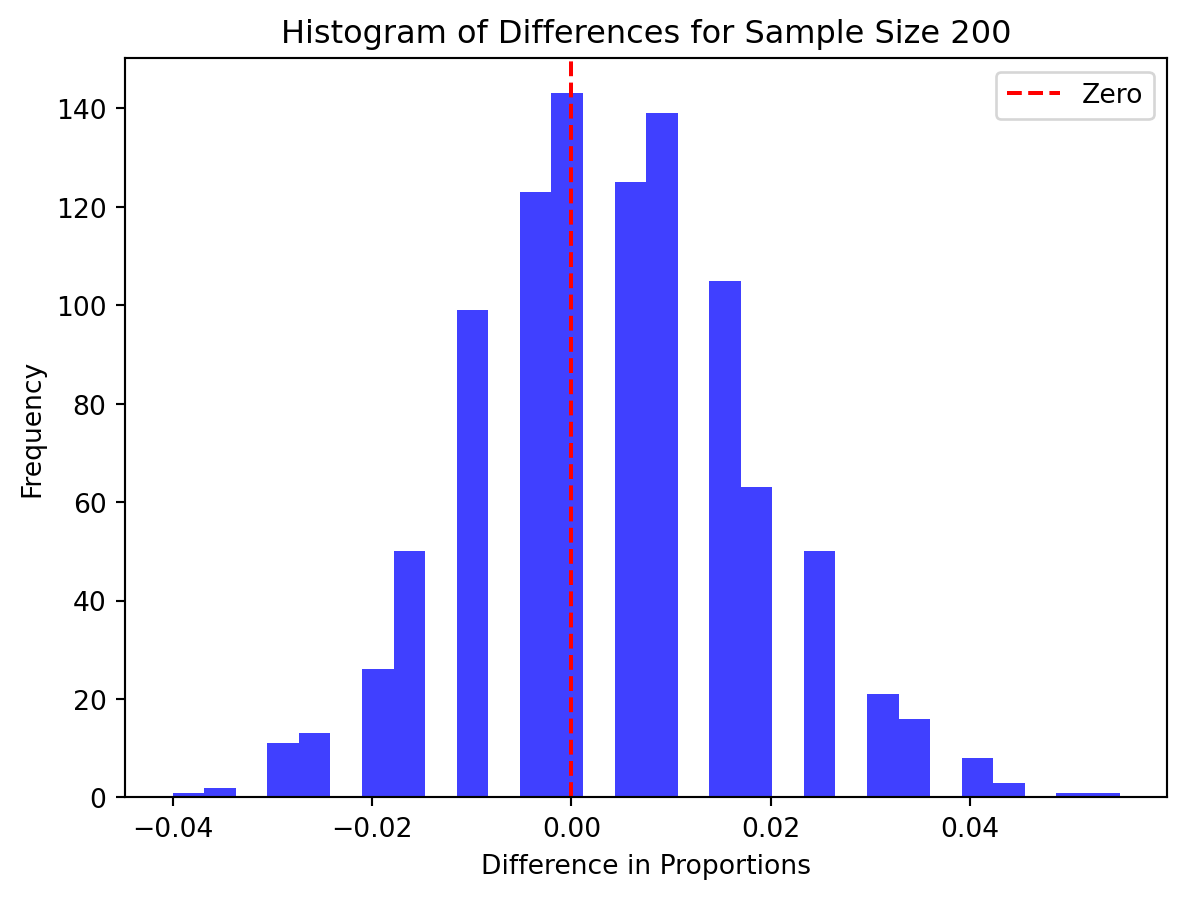
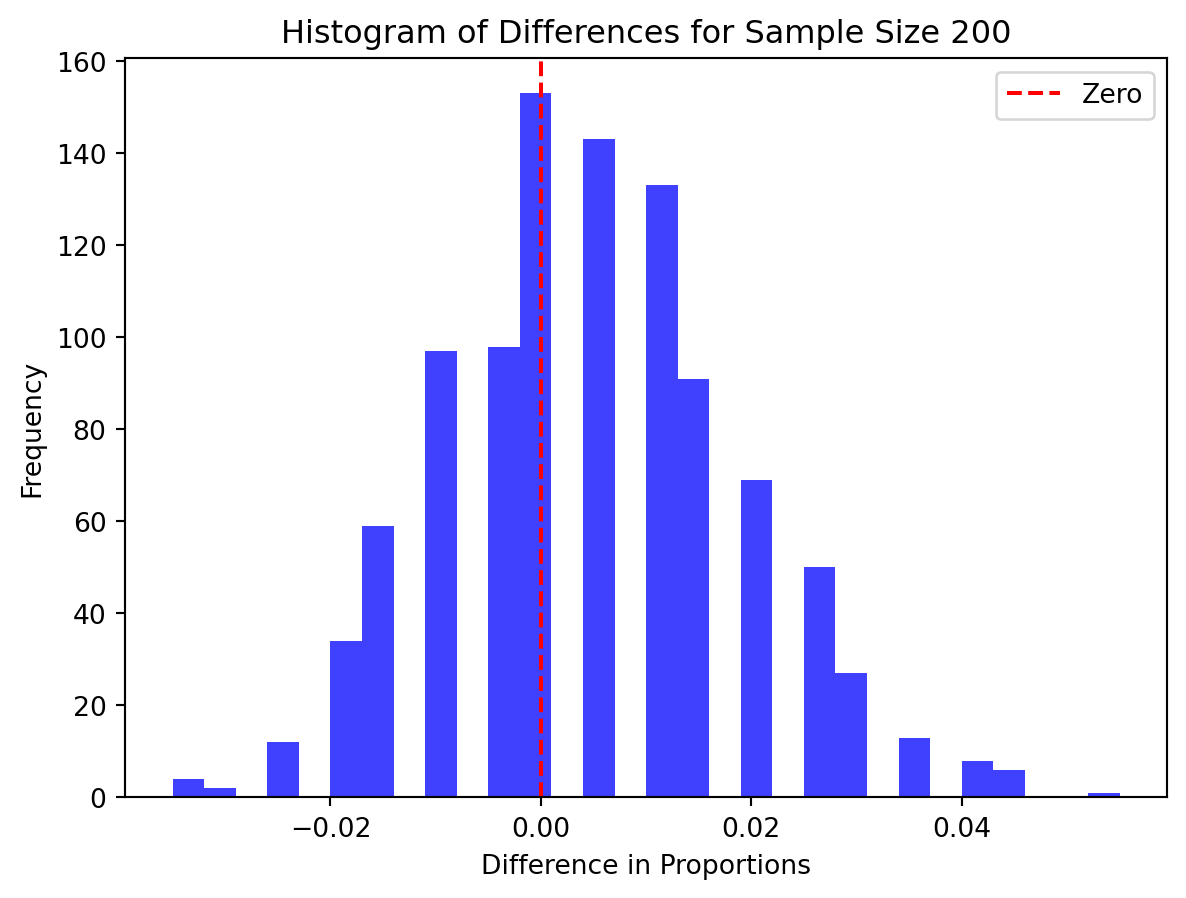
HW 1 COMMIT 4

diff --git a/docs/homeworks/homework 1/index.html b/docs/homeworks/homework 1/index.html
@@ -218,7 +218,7 @@ pre > code.sourceCode > span > a:first-child::before { text-decoration: underlin
 <h2 class="anchored" data-anchor-id="data">Data</h2>
 <section id="description" class="level3">
 <h3 class="anchored" data-anchor-id="description">Description</h3>
-<div id="f9310d09" class="cell" data-message="false" data-execution_count="1">
+<div id="09008481" class="cell" data-message="false" data-execution_count="1">
 <div class="cell-output cell-output-stdout">
 <pre><code>Note: you may need to restart the kernel to use updated packages.</code></pre>
 </div>
@@ -228,7 +228,7 @@ pre > code.sourceCode > span > a:first-child::before { text-decoration: underlin
 [notice] To update, run: C:\Users\kcrah\AppData\Local\Programs\Python\Python312\pythonw.exe -m pip install --upgrade pip</code></pre>
 </div>
 </div>
-<div id="5101c087" class="cell" data-execution_count="2">
+<div id="d49af300" class="cell" data-execution_count="2">
 <div class="sourceCode cell-code" id="cb3"><pre class="sourceCode python code-with-copy"><code class="sourceCode python"><span id="cb3-1"><a href="#cb3-1" aria-hidden="true" tabindex="-1"></a><span class="co">#Import libarary and data file</span></span>
 <span id="cb3-2"><a href="#cb3-2" aria-hidden="true" tabindex="-1"></a><span class="im">import</span> pandas <span class="im">as</span> pd</span>
 <span id="cb3-3"><a href="#cb3-3" aria-hidden="true" tabindex="-1"></a><span class="im">from</span> scipy.stats <span class="im">import</span> ttest_ind</span>
@@ -238,7 +238,7 @@ pre > code.sourceCode > span > a:first-child::before { text-decoration: underlin
 <span id="cb3-7"><a href="#cb3-7" aria-hidden="true" tabindex="-1"></a></span>
 <span id="cb3-8"><a href="#cb3-8" aria-hidden="true" tabindex="-1"></a>data <span class="op">=</span> pd.read_stata(<span class="st">"C:/Users/kcrah/Desktop/Quarto_stuff/files/karlan_list_2007.dta"</span>)</span></code><button title="Copy to Clipboard" class="code-copy-button"><i class="bi"></i></button></pre></div>
 </div>
-<div id="5670b421" class="cell" data-execution_count="3">
+<div id="0da8e1c3" class="cell" data-execution_count="3">
 <div class="sourceCode cell-code" id="cb4"><pre class="sourceCode python code-with-copy"><code class="sourceCode python"><span id="cb4-1"><a href="#cb4-1" aria-hidden="true" tabindex="-1"></a>data.head()</span></code><button title="Copy to Clipboard" class="code-copy-button"><i class="bi"></i></button></pre></div>
 <div class="cell-output cell-output-display" data-execution_count="3">
 <div>
@@ -401,7 +401,7 @@ pre > code.sourceCode > span > a:first-child::before { text-decoration: underlin
 </div>
 </div>
 </div>
-<div id="12c83f49" class="cell" data-execution_count="4">
+<div id="b7cce3ca" class="cell" data-execution_count="4">
 <div class="sourceCode cell-code" id="cb5"><pre class="sourceCode python code-with-copy"><code class="sourceCode python"><span id="cb5-1"><a href="#cb5-1" aria-hidden="true" tabindex="-1"></a>data.describe()</span></code><button title="Copy to Clipboard" class="code-copy-button"><i class="bi"></i></button></pre></div>
 <div class="cell-output cell-output-display" data-execution_count="4">
 <div>
@@ -887,12 +887,12 @@ Balance Test
 </div>
 <p>As an ad hoc test of the randomization mechanism, I provide a series of tests that compare aspects of the treatment and control groups to assess whether they are statistically significantly different from one another.</p>
 <p>First I did a t-test to compare the mrm2 between the treatment and control groups to determine if there are any statistically significant differences at the 95% confidence level.</p>
-<div id="38d1cb97" class="cell" data-execution_count="5">
+<div id="58bb80a3" class="cell" data-execution_count="5">
 <div class="sourceCode cell-code" id="cb6"><pre class="sourceCode python code-with-copy"><code class="sourceCode python"><span id="cb6-1"><a href="#cb6-1" aria-hidden="true" tabindex="-1"></a><span class="co">#Getting data for t-test and linear regression</span></span>
 <span id="cb6-2"><a href="#cb6-2" aria-hidden="true" tabindex="-1"></a>treatment_mrm2 <span class="op">=</span> data[data[<span class="st">'treatment'</span>] <span class="op">==</span> <span class="dv">1</span>][<span class="st">'mrm2'</span>]</span>
 <span id="cb6-3"><a href="#cb6-3" aria-hidden="true" tabindex="-1"></a>control_mrm2 <span class="op">=</span> data[data[<span class="st">'treatment'</span>] <span class="op">==</span> <span class="dv">0</span>][<span class="st">'mrm2'</span>]</span></code><button title="Copy to Clipboard" class="code-copy-button"><i class="bi"></i></button></pre></div>
 </div>
-<div id="912547ed" class="cell" data-execution_count="6">
+<div id="3f0b8948" class="cell" data-execution_count="6">
 <div class="sourceCode cell-code" id="cb7"><pre class="sourceCode python code-with-copy"><code class="sourceCode python"><span id="cb7-1"><a href="#cb7-1" aria-hidden="true" tabindex="-1"></a><span class="co">#T-test</span></span>
 <span id="cb7-2"><a href="#cb7-2" aria-hidden="true" tabindex="-1"></a>t_test_result <span class="op">=</span> ttest_ind(treatment_mrm2.dropna(), control_mrm2.dropna(), equal_var<span class="op">=</span><span class="va">False</span>)</span>
 <span id="cb7-3"><a href="#cb7-3" aria-hidden="true" tabindex="-1"></a>t_test_result</span></code><button title="Copy to Clipboard" class="code-copy-button"><i class="bi"></i></button></pre></div>
@@ -901,18 +901,18 @@ Balance Test
 </div>
 </div>
 <p>Then I did a linear regression to again compare the mrm2 between the treatment and control groups to determine if there are any statistically significant differences at the 95% confidence level.</p>
-<div id="bf756ba2" class="cell" data-execution_count="7">
+<div id="1f422ba5" class="cell" data-execution_count="7">
 <div class="sourceCode cell-code" id="cb9"><pre class="sourceCode python code-with-copy"><code class="sourceCode python"><span id="cb9-1"><a href="#cb9-1" aria-hidden="true" tabindex="-1"></a><span class="co">#Data for linear regression</span></span>
 <span id="cb9-2"><a href="#cb9-2" aria-hidden="true" tabindex="-1"></a>X <span class="op">=</span> sm.add_constant(data[<span class="st">'treatment'</span>])  <span class="co"># Adding a constant for the intercept</span></span>
 <span id="cb9-3"><a href="#cb9-3" aria-hidden="true" tabindex="-1"></a>y <span class="op">=</span> data[<span class="st">'mrm2'</span>].dropna()</span>
 <span id="cb9-4"><a href="#cb9-4" aria-hidden="true" tabindex="-1"></a>X <span class="op">=</span> X[X.index.isin(y.index)]  <span class="co">#Match index in X and y after dropping 'NA' in y</span></span></code><button title="Copy to Clipboard" class="code-copy-button"><i class="bi"></i></button></pre></div>
 </div>
-<div id="91a519e0" class="cell" data-execution_count="8">
+<div id="4b50f8e2" class="cell" data-execution_count="8">
 <div class="sourceCode cell-code" id="cb10"><pre class="sourceCode python code-with-copy"><code class="sourceCode python"><span id="cb10-1"><a href="#cb10-1" aria-hidden="true" tabindex="-1"></a><span class="co">#Linear regression</span></span>
 <span id="cb10-2"><a href="#cb10-2" aria-hidden="true" tabindex="-1"></a>model <span class="op">=</span> sm.OLS(y, X)</span>
 <span id="cb10-3"><a href="#cb10-3" aria-hidden="true" tabindex="-1"></a>results <span class="op">=</span> model.fit()</span></code><button title="Copy to Clipboard" class="code-copy-button"><i class="bi"></i></button></pre></div>
 </div>
-<div id="9535a02b" class="cell" data-execution_count="9">
+<div id="ef79467f" class="cell" data-execution_count="9">
 <div class="sourceCode cell-code" id="cb11"><pre class="sourceCode python code-with-copy"><code class="sourceCode python"><span id="cb11-1"><a href="#cb11-1" aria-hidden="true" tabindex="-1"></a>t_test_result, results.summary()</span></code><button title="Copy to Clipboard" class="code-copy-button"><i class="bi"></i></button></pre></div>
 <div class="cell-output cell-output-display" data-execution_count="9">
 <pre><code>(TtestResult(statistic=0.11953155228177251, pvalue=0.9048549631450832, df=33394.47581389535),
@@ -924,7 +924,7 @@ Balance Test
  Model:                            OLS   Adj. R-squared:                 -0.000
  Method:                 Least Squares   F-statistic:                   0.01428
  Date:                Tue, 16 Apr 2024   Prob (F-statistic):              0.905
- Time:                        17:52:22   Log-Likelihood:            -1.9585e+05
+ Time:                        17:56:49   Log-Likelihood:            -1.9585e+05
  No. Observations:               50082   AIC:                         3.917e+05
  Df Residuals:                   50080   BIC:                         3.917e+05
  Df Model:                           1                                         
@@ -987,7 +987,7 @@ Charitable Contribution Made
 </div>
 <p>First, I analyze whether matched donations lead to an increased response rate of making a donation.</p>
 <p>I started by making a bar plot. Each bar is the proportion of people who donated. One bar for treatment and one bar for control.</p>
-<div id="973fd66d" class="cell" data-execution_count="10">
+<div id="0306ce85" class="cell" data-execution_count="10">
 <div class="sourceCode cell-code" id="cb13"><pre class="sourceCode python code-with-copy"><code class="sourceCode python"><span id="cb13-1"><a href="#cb13-1" aria-hidden="true" tabindex="-1"></a><span class="im">import</span> matplotlib.pyplot <span class="im">as</span> plt</span>
 <span id="cb13-2"><a href="#cb13-2" aria-hidden="true" tabindex="-1"></a></span>
 <span id="cb13-3"><a href="#cb13-3" aria-hidden="true" tabindex="-1"></a><span class="co">#Calculate the proportion of donors in treatment and control groups</span></span>
@@ -1020,12 +1020,12 @@ Charitable Contribution Made
 </div>
 <p>The bar graph above shows that in the treatment group 2.20% of the participants made a donation. In the control group 1.79% of the participants donated.</p>
 <p>Next I ran a t-test between the treatment and control groups on the binary outcome of whether any charitable donation was made.</p>
-<div id="5cd5e3ad" class="cell" data-execution_count="11">
+<div id="cd6f84df" class="cell" data-execution_count="11">
 <div class="sourceCode cell-code" id="cb14"><pre class="sourceCode python code-with-copy"><code class="sourceCode python"><span id="cb14-1"><a href="#cb14-1" aria-hidden="true" tabindex="-1"></a><span class="co">#Match data for t-test on the binary outcome 'gave'</span></span>
 <span id="cb14-2"><a href="#cb14-2" aria-hidden="true" tabindex="-1"></a>gave_treatment <span class="op">=</span> data[data[<span class="st">'treatment'</span>] <span class="op">==</span> <span class="dv">1</span>][<span class="st">'gave'</span>]</span>
 <span id="cb14-3"><a href="#cb14-3" aria-hidden="true" tabindex="-1"></a>gave_control <span class="op">=</span> data[data[<span class="st">'treatment'</span>] <span class="op">==</span> <span class="dv">0</span>][<span class="st">'gave'</span>]</span></code><button title="Copy to Clipboard" class="code-copy-button"><i class="bi"></i></button></pre></div>
 </div>
-<div id="b10638fc" class="cell" data-execution_count="12">
+<div id="3f63074e" class="cell" data-execution_count="12">
 <div class="sourceCode cell-code" id="cb15"><pre class="sourceCode python code-with-copy"><code class="sourceCode python"><span id="cb15-1"><a href="#cb15-1" aria-hidden="true" tabindex="-1"></a><span class="co">#T-test</span></span>
 <span id="cb15-2"><a href="#cb15-2" aria-hidden="true" tabindex="-1"></a>t_test_gave_result <span class="op">=</span> ttest_ind(gave_treatment.dropna(), gave_control.dropna(), equal_var<span class="op">=</span><span class="va">False</span>)</span>
 <span id="cb15-3"><a href="#cb15-3" aria-hidden="true" tabindex="-1"></a>t_test_gave_result</span></code><button title="Copy to Clipboard" class="code-copy-button"><i class="bi"></i></button></pre></div>
@@ -1040,18 +1040,18 @@ Charitable Contribution Made
 <h4 class="anchored" data-anchor-id="p-val-0.0013">p-val: 0.0013</h4>
 <p>This shows a statistically significant difference between the treatment and control groups as shown by the p-value being below 0.05 meaning we reject the null hypothesis.</p>
 <p>I also ran a bivariate linear regression that demonstrates the same finding.</p>
-<div id="89c865a8" class="cell" data-execution_count="13">
+<div id="8279c513" class="cell" data-execution_count="13">
 <div class="sourceCode cell-code" id="cb17"><pre class="sourceCode python code-with-copy"><code class="sourceCode python"><span id="cb17-1"><a href="#cb17-1" aria-hidden="true" tabindex="-1"></a><span class="co">#Matching data for linear regression</span></span>
 <span id="cb17-2"><a href="#cb17-2" aria-hidden="true" tabindex="-1"></a>X_gave <span class="op">=</span> sm.add_constant(data[<span class="st">'treatment'</span>])  <span class="co">#Adding a constant for the intercept</span></span>
 <span id="cb17-3"><a href="#cb17-3" aria-hidden="true" tabindex="-1"></a>y_gave <span class="op">=</span> data[<span class="st">'gave'</span>].dropna()</span>
 <span id="cb17-4"><a href="#cb17-4" aria-hidden="true" tabindex="-1"></a>X_gave <span class="op">=</span> X_gave[X_gave.index.isin(y_gave.index)]  <span class="co">#Match index in X and y after dropping 'NA' in y</span></span></code><button title="Copy to Clipboard" class="code-copy-button"><i class="bi"></i></button></pre></div>
 </div>
-<div id="4c47ea68" class="cell" data-execution_count="14">
+<div id="d7f8572d" class="cell" data-execution_count="14">
 <div class="sourceCode cell-code" id="cb18"><pre class="sourceCode python code-with-copy"><code class="sourceCode python"><span id="cb18-1"><a href="#cb18-1" aria-hidden="true" tabindex="-1"></a><span class="co"># Linear regression</span></span>
 <span id="cb18-2"><a href="#cb18-2" aria-hidden="true" tabindex="-1"></a>model_gave <span class="op">=</span> sm.OLS(y_gave, X_gave)</span>
 <span id="cb18-3"><a href="#cb18-3" aria-hidden="true" tabindex="-1"></a>results_gave <span class="op">=</span> model_gave.fit()</span></code><button title="Copy to Clipboard" class="code-copy-button"><i class="bi"></i></button></pre></div>
 </div>
-<div id="21c4aca2" class="cell" data-execution_count="15">
+<div id="00b9ed24" class="cell" data-execution_count="15">
 <div class="sourceCode cell-code" id="cb19"><pre class="sourceCode python code-with-copy"><code class="sourceCode python"><span id="cb19-1"><a href="#cb19-1" aria-hidden="true" tabindex="-1"></a>t_test_gave_result, results_gave.summary()</span></code><button title="Copy to Clipboard" class="code-copy-button"><i class="bi"></i></button></pre></div>
 <div class="cell-output cell-output-display" data-execution_count="15">
 <pre><code>(TtestResult(statistic=3.2094621908279835, pvalue=0.001330982345091417, df=36576.84238986656),
@@ -1063,7 +1063,7 @@ Charitable Contribution Made
  Model:                            OLS   Adj. R-squared:                  0.000
  Method:                 Least Squares   F-statistic:                     9.618
  Date:                Tue, 16 Apr 2024   Prob (F-statistic):            0.00193
- Time:                        17:52:23   Log-Likelihood:                 26630.
+ Time:                        17:56:50   Log-Likelihood:                 26630.
  No. Observations:               50083   AIC:                        -5.326e+04
  Df Residuals:                   50081   BIC:                        -5.324e+04
  Df Model:                           1                                         
@@ -1116,7 +1116,7 @@ Differences between Match Rates
 </div>
 <p>Next, I assess the effectiveness of different sizes of matched donations on the response rate.</p>
 <p>I started by using a series of t-tests to test whether the size of the match ratio has an effect on whether people donate or not. For example, does the 2:1 match rate lead increase the likelihood that someone donates as compared to the 1:1 match rate?</p>
-<div id="0d5f7b5e" class="cell" data-execution_count="16">
+<div id="194bad93" class="cell" data-execution_count="16">
 <div class="sourceCode cell-code" id="cb21"><pre class="sourceCode python code-with-copy"><code class="sourceCode python"><span id="cb21-1"><a href="#cb21-1" aria-hidden="true" tabindex="-1"></a><span class="co"># Get data for the 2:1 match rate group </span></span>
 <span id="cb21-2"><a href="#cb21-2" aria-hidden="true" tabindex="-1"></a>ratio2_sample <span class="op">=</span> data[data[<span class="st">'ratio2'</span>] <span class="op">==</span> <span class="dv">1</span>]</span>
 <span id="cb21-3"><a href="#cb21-3" aria-hidden="true" tabindex="-1"></a>ratio2_sample</span></code><button title="Copy to Clipboard" class="code-copy-button"><i class="bi"></i></button></pre></div>
@@ -1425,7 +1425,7 @@ Differences between Match Rates
 </div>
 </div>
 </div>
-<div id="f6bcb903" class="cell" data-execution_count="17">
+<div id="14f69903" class="cell" data-execution_count="17">
 <div class="sourceCode cell-code" id="cb22"><pre class="sourceCode python code-with-copy"><code class="sourceCode python"><span id="cb22-1"><a href="#cb22-1" aria-hidden="true" tabindex="-1"></a><span class="co"># Get  data for the 1:1 match rate group </span></span>
 <span id="cb22-2"><a href="#cb22-2" aria-hidden="true" tabindex="-1"></a>ratio1_sample <span class="op">=</span> data[data[<span class="st">'ratio'</span>] <span class="op">==</span> <span class="dv">1</span>]</span>
 <span id="cb22-3"><a href="#cb22-3" aria-hidden="true" tabindex="-1"></a>ratio1_sample</span></code><button title="Copy to Clipboard" class="code-copy-button"><i class="bi"></i></button></pre></div>
@@ -1734,12 +1734,12 @@ Differences between Match Rates
 </div>
 </div>
 </div>
-<div id="e53fe526" class="cell" data-execution_count="18">
+<div id="a7176028" class="cell" data-execution_count="18">
 <div class="sourceCode cell-code" id="cb23"><pre class="sourceCode python code-with-copy"><code class="sourceCode python"><span id="cb23-1"><a href="#cb23-1" aria-hidden="true" tabindex="-1"></a><span class="co"># Match data for t-tests comparing different match ratios</span></span>
 <span id="cb23-2"><a href="#cb23-2" aria-hidden="true" tabindex="-1"></a>gave_ratio1 <span class="op">=</span> data[data[<span class="st">'ratio'</span>] <span class="op">==</span> <span class="st">'1'</span>][<span class="st">'gave'</span>]</span>
 <span id="cb23-3"><a href="#cb23-3" aria-hidden="true" tabindex="-1"></a>gave_ratio2 <span class="op">=</span> data[data[<span class="st">'ratio2'</span>] <span class="op">==</span> <span class="dv">1</span>][<span class="st">'gave'</span>]</span></code><button title="Copy to Clipboard" class="code-copy-button"><i class="bi"></i></button></pre></div>
 </div>
-<div id="7ec27da5" class="cell" data-execution_count="19">
+<div id="69ab2793" class="cell" data-execution_count="19">
 <div class="sourceCode cell-code" id="cb24"><pre class="sourceCode python code-with-copy"><code class="sourceCode python"><span id="cb24-1"><a href="#cb24-1" aria-hidden="true" tabindex="-1"></a><span class="co"># Calc t-test for ratios</span></span>
 <span id="cb24-2"><a href="#cb24-2" aria-hidden="true" tabindex="-1"></a>t_test_ratio1_vs_ratio2 <span class="op">=</span> ttest_ind(gave_ratio1.dropna(), gave_ratio2.dropna(), equal_var<span class="op">=</span><span class="va">False</span>)</span>
 <span id="cb24-3"><a href="#cb24-3" aria-hidden="true" tabindex="-1"></a></span>
@@ -1769,7 +1769,7 @@ Size of Charitable Contribution
 </div>
 <p>In this subsection, I analyze the effect of the size of matched donation on the size of the charitable contribution…</p>
 <p>I started by doing a t-test on the donation amount based on treatment status, to see if there’s a statistically significant difference in the amount donated between the treatment group and the control group.</p>
-<div id="bf6cde51" class="cell" data-execution_count="20">
+<div id="6af687ce" class="cell" data-execution_count="20">
 <div class="sourceCode cell-code" id="cb26"><pre class="sourceCode python code-with-copy"><code class="sourceCode python"><span id="cb26-1"><a href="#cb26-1" aria-hidden="true" tabindex="-1"></a><span class="co">#Get donation amounts for treatment and control groups</span></span>
 <span id="cb26-2"><a href="#cb26-2" aria-hidden="true" tabindex="-1"></a>treatment_amounts <span class="op">=</span> data[data[<span class="st">'treatment'</span>] <span class="op">==</span> <span class="dv">1</span>][<span class="st">'amount'</span>]</span>
 <span id="cb26-3"><a href="#cb26-3" aria-hidden="true" tabindex="-1"></a>control_amounts <span class="op">=</span> data[data[<span class="st">'treatment'</span>] <span class="op">==</span> <span class="dv">0</span>][<span class="st">'amount'</span>]</span>
@@ -1831,7 +1831,7 @@ Central Limit Theorem
 </div>
 </div>
 <p>I made 4 histograms like those on slide 44 from our first class at sample sizes 50, 200, 500, and 1000 which show… I did this for sample size 50,200,500 and 1000 by taking the respective sample draws from each of the control and treatment distributions, and calculating the average difference between those draws. Then repeating that process 999 more times so I had 1000 averages. The zero is the “middle” of the distribution for all 4 histograms.</p>
-<div id="76977944" class="cell" data-execution_count="21">
+<div id="59b937bc" class="cell" data-execution_count="21">
 <div class="sourceCode cell-code" id="cb28"><pre class="sourceCode python code-with-copy"><code class="sourceCode python"><span id="cb28-1"><a href="#cb28-1" aria-hidden="true" tabindex="-1"></a><span class="co">#Calculate means and standard deviations for 'gave' </span></span>
 <span id="cb28-2"><a href="#cb28-2" aria-hidden="true" tabindex="-1"></a>treatment_gave <span class="op">=</span> data[data[<span class="st">'treatment'</span>] <span class="op">==</span> <span class="dv">1</span>][<span class="st">'gave'</span>]</span>
 <span id="cb28-3"><a href="#cb28-3" aria-hidden="true" tabindex="-1"></a>control_gave <span class="op">=</span> data[data[<span class="st">'treatment'</span>] <span class="op">==</span> <span class="dv">0</span>][<span class="st">'gave'</span>]</span>
@@ -1850,7 +1850,7 @@ Central Limit Theorem
 Treatment Std Dev: 0.14681115226051514 Control Std Dev: 0.13243998017151457</code></pre>
 </div>
 </div>
-<div id="2e68bd7c" class="cell" data-execution_count="22">
+<div id="6953c8ea" class="cell" data-execution_count="22">
 <div class="sourceCode cell-code" id="cb30"><pre class="sourceCode python code-with-copy"><code class="sourceCode python"><span id="cb30-1"><a href="#cb30-1" aria-hidden="true" tabindex="-1"></a><span class="co">#Function to simulate differences</span></span>
 <span id="cb30-2"><a href="#cb30-2" aria-hidden="true" tabindex="-1"></a><span class="kw">def</span> simulate_differences(sample_size, num_simulations):</span>
 <span id="cb30-3"><a href="#cb30-3" aria-hidden="true" tabindex="-1"></a>    differences <span class="op">=</span> []</span>
@@ -1892,7 +1892,7 @@ Treatment Std Dev: 0.14681115226051514 Control Std Dev: 0.13243998017151457</cod
 <div class="cell-output cell-output-display">
 <div>
 <figure class="figure">
-<p><img src="index_files/figure-html/cell-23-output-3.png" width="585" height="449" class="figure-img"></p>
+<p><img src="index_files/figure-html/cell-23-output-3.png" width="593" height="449" class="figure-img"></p>
 </figure>
 </div>
 </div>

diff --git a/docs/homeworks.html b/docs/homeworks.html
@@ -206,7 +206,7 @@ window.Quarto = {
 
 <div class="quarto-listing quarto-listing-container-grid" id="listing-listing">
 <div class="list grid quarto-listing-cols-3">
-<div class="g-col-1" data-index="0" data-listing-date-sort="1713250800000" data-listing-file-modified-sort="1713315133625" data-listing-date-modified-sort="NaN" data-listing-reading-time-sort="26" data-listing-word-count-sort="5156">
+<div class="g-col-1" data-index="0" data-listing-date-sort="1713250800000" data-listing-file-modified-sort="1713315396846" data-listing-date-modified-sort="NaN" data-listing-reading-time-sort="26" data-listing-word-count-sort="5156">
 <a href="./homeworks/homework 1/index.html" class="quarto-grid-link">
 <div class="quarto-grid-item card h-100 card-left">
 <p class="card-img-top"><img src="homeworks\homework 1\index_files\figure-html\cell-11-output-1.png" style="height: 150px;"  class="thumbnail-image card-img"/></p>
